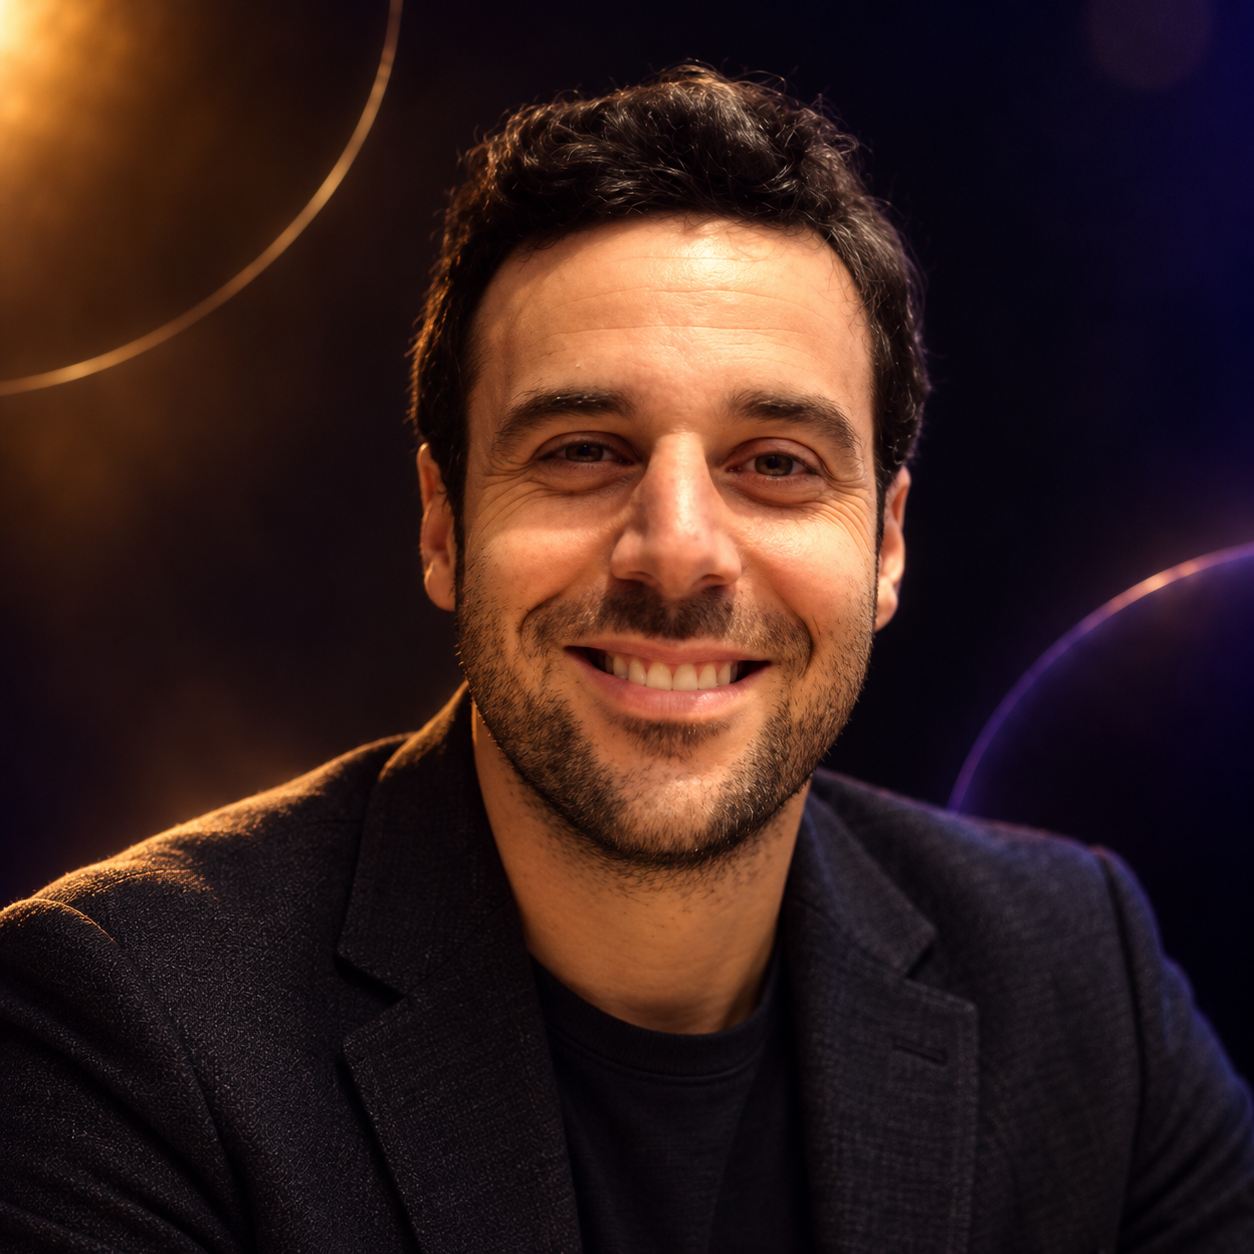
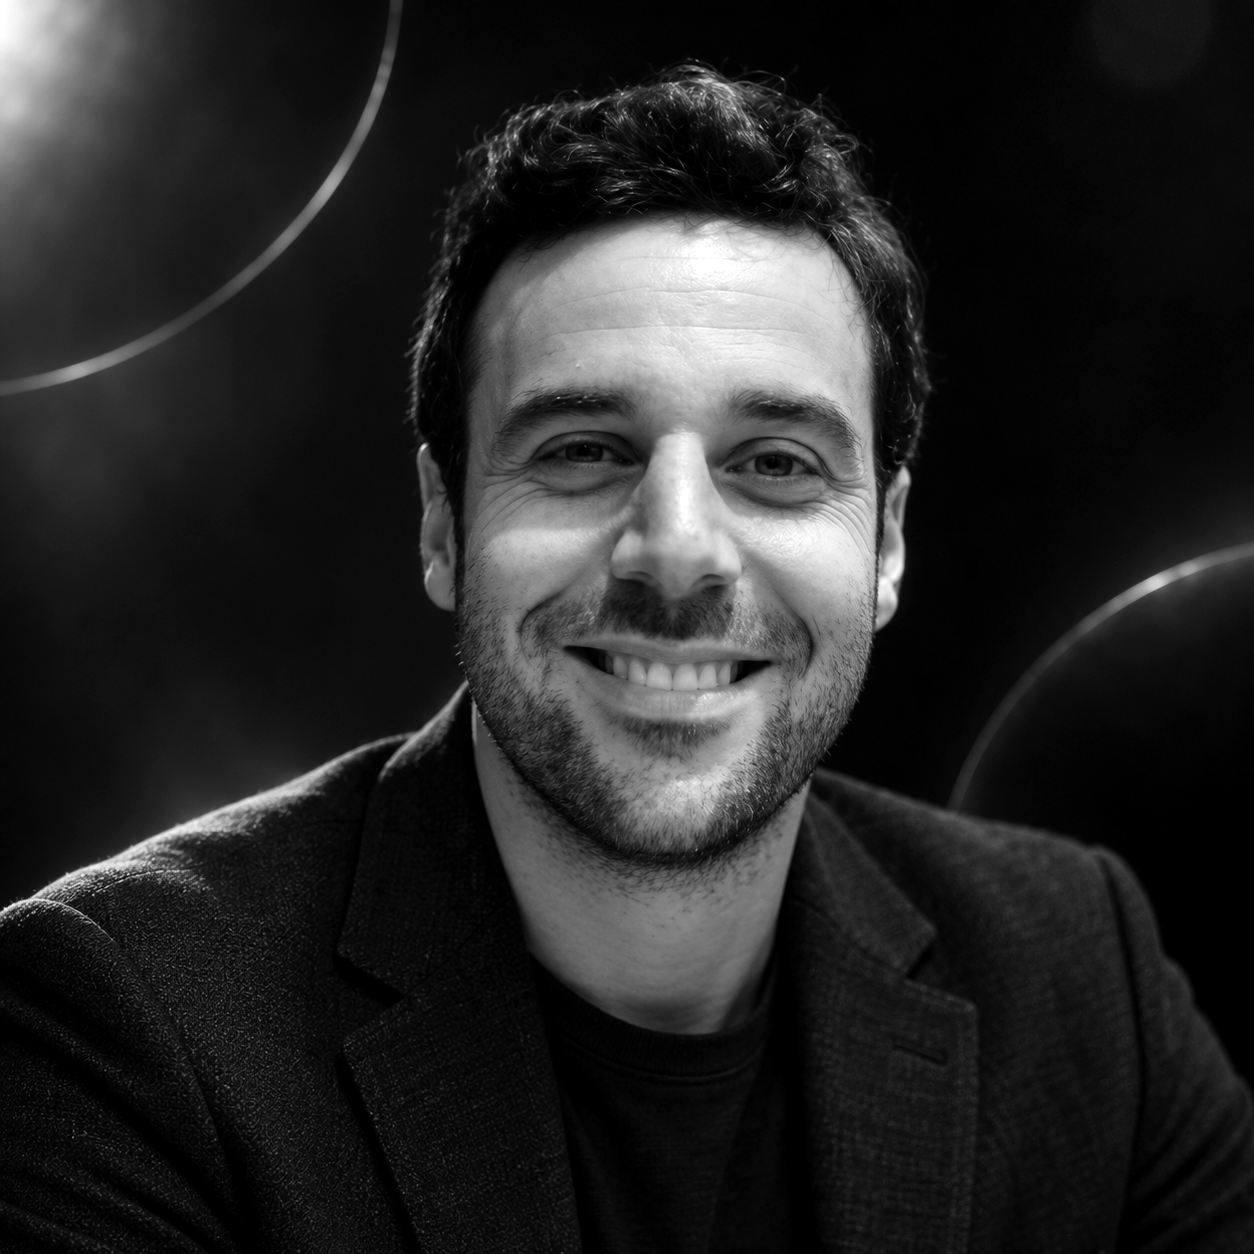
Add files via upload

diff --git a/index.html b/index.html
@@ -133,7 +133,7 @@
       user-select:none;
     }
     .event-kicker{
-      align-self:start;padding-top:94px;max-width:92px;
+      align-self:start;padding-top:94px;max-width:64px;
     }
     .event-kicker .micro{display:block;margin-bottom:15px}
     .event-kicker p{margin:0;color:var(--muted);font-size:13px;line-height:1.5}
@@ -250,22 +250,105 @@
       font-size:25px;font-weight:400;margin:0 0 7px;
     }
     .principle p{
-      margin:0;color:var(--muted);font-size:14px;line-height:1.5;max-width:420px;
+      margin:0;color:var(--muted);font-size:14px;line-height:1.5;max-width:280px;
     }
 
 
-    .organizers{padding:18px 0 120px;display:grid;grid-template-columns:.75fr 1.25fr;gap:84px;align-items:start;position:relative}
-    .organizers-intro{padding-top:28px}
-    .organizers-intro h2{font-family:Georgia,"Times New Roman",serif;font-weight:400;font-size:clamp(42px,5vw,68px);line-height:.98;letter-spacing:-.04em;margin:20px 0 0;max-width:420px}
-    .organizer-list{display:grid;gap:54px}
-    .organizer{display:grid;grid-template-columns:92px 1fr;gap:18px;align-items:center;padding-top:26px;border-top:1px solid var(--line)}
-    .portrait-wrap{position:relative;width:92px;height:150px}
-    .portrait-wrap:before{content:"";position:absolute;inset:-6px;border:1px solid transparent;border-radius:50%;background:linear-gradient(var(--bg),var(--bg)) padding-box,linear-gradient(135deg,var(--amber),var(--rose),var(--violet),var(--amber)) border-box;opacity:.85}
-    .portrait{width:100%;height:100%;border-radius:50%;object-fit:cover;display:block;position:relative;z-index:1}
-    .organizer-copy h3{font-family:Georgia,"Times New Roman",serif;font-size:22px;font-weight:400;margin:0 0 5px}
-    .organizer-role{font-size:11px;text-transform:uppercase;letter-spacing:.16em;color:#c7a8e8;margin-bottom:13px}
-    .organizer-copy p{margin:0;color:var(--muted);font-size:14px;line-height:1.55;max-width:470px}
-    .organizer-copy a{display:inline-block;margin-top:12px;font-size:11px;letter-spacing:.12em;text-transform:uppercase;text-decoration:none;color:var(--soft);border-bottom:1px solid rgba(255,255,255,.28);padding-bottom:4px}
+    .organizers{
+      padding:36px 0 58px;
+      border-top:1px solid var(--line);
+    }
+    .organizers-intro{
+      display:grid;
+      grid-template-columns:.65fr 1.35fr;
+      gap:60px;
+      align-items:start;
+      margin-bottom:34px;
+    }
+    .organizers-intro h2{
+      font-family:Georgia,"Times New Roman",serif;
+      font-weight:400;
+      font-size:clamp(34px,4vw,52px);
+      line-height:.98;
+      letter-spacing:-.04em;
+      margin:16px 0 0;
+    }
+    .organizers-mission{
+      margin:30px 0 0;
+      max-width:620px;
+      color:var(--soft);
+      font-size:15px;
+      line-height:1.55;
+    }
+    .organizer-list{
+      display:grid;
+      grid-template-columns:1fr 1fr;
+      gap:34px;
+    }
+    .organizer{
+      display:grid;
+      grid-template-columns:72px 1fr;
+      gap:16px;
+      align-items:center;
+      padding-top:18px;
+      border-top:1px solid rgba(255,255,255,.10);
+    }
+    .portrait-wrap{
+      position:relative;
+      width:72px;
+      height:72px;
+    }
+    .portrait-wrap:before{
+      content:"";
+      position:absolute;
+      inset:-4px;
+      border:1px solid transparent;
+      border-radius:50%;
+      background:
+        linear-gradient(var(--bg),var(--bg)) padding-box,
+        linear-gradient(135deg,var(--amber),var(--rose),var(--violet),var(--amber)) border-box;
+      opacity:.55;
+    }
+    .portrait{
+      width:100%;
+      height:100%;
+      border-radius:50%;
+      object-fit:cover;
+      display:block;
+      position:relative;
+      z-index:1;
+    }
+    .organizer-copy h3{
+      font-family:Georgia,"Times New Roman",serif;
+      font-size:21px;
+      font-weight:400;
+      margin:0 0 3px;
+    }
+    .organizer-role{
+      font-size:10px;
+      text-transform:uppercase;
+      letter-spacing:.15em;
+      color:#c7a8e8;
+      margin-bottom:7px;
+    }
+    .organizer-copy p{
+      margin:0;
+      color:var(--muted);
+      font-size:12px;
+      line-height:1.45;
+      max-width:350px;
+    }
+    .organizer-copy a{
+      display:inline-block;
+      margin-top:7px;
+      font-size:10px;
+      letter-spacing:.11em;
+      text-transform:uppercase;
+      text-decoration:none;
+      color:var(--soft);
+      border-bottom:1px solid rgba(255,255,255,.22);
+      padding-bottom:3px;
+    }
 
 
     .testimonials{
@@ -283,7 +366,7 @@
     .testimonials-intro h2{
       font-family:Georgia,"Times New Roman",serif;
       font-weight:400;
-      font-size:clamp(42px,5vw,68px);
+      font-size:clamp(28px,3.6vw,44px);
       line-height:.98;
       letter-spacing:-.04em;
       margin:18px 0 0;
@@ -405,9 +488,12 @@
       .event-meta{display:grid;grid-template-columns:1fr 1fr}
       .philosophy{grid-template-columns:1fr;min-height:auto;gap:20px}
       .principles{padding-top:40px}
-      .organizers{grid-template-columns:1fr;gap:42px;padding:10px 0 90px}
-      .organizer{grid-template-columns:76px 1fr;gap:22px}
-      .portrait-wrap{width:76px;height:76px}
+      .organizers{padding:30px 0 38px}
+      .organizers-intro{grid-template-columns:1fr;gap:8px;margin-bottom:24px}
+      .organizers-mission{margin:4px 0 0;font-size:14px}
+      .organizer-list{grid-template-columns:1fr;gap:18px}
+      .organizer{grid-template-columns:60px 1fr;gap:13px;padding-top:15px}
+      .portrait-wrap{width:60px;height:60px}
 
       .testimonials{padding:0 0 86px}
       .testimonials-intro{grid-template-columns:1fr;gap:14px;margin-bottom:24px}
@@ -440,10 +526,10 @@
     <main>
       <section class="hero">
         <div class="hero-copy">
-          <div class="eyebrow">Private dinners for People leaders</div>
-          <h1>Lumenair Dinners</h1>
+          <div class="eyebrow">Invite-only dinners for People leaders</div>
+          <h1>For the leaders reshaping how work works.</h1>
           <div class="subtitle">
-            Lumenair Dinners is a private dinner series for Chief People Officers and senior HR executives. Each dinner brings together a small group of peers for candid conversation about leadership, organizational change and the issues shaping people teams.
+            Lumenairs brings Chief People Officers and senior HR executives together for candid conversations about the forces changing people, performance and organizations.
           </div>
         </div>
 
@@ -517,43 +603,14 @@
         </div>
       </section>
 
-      <section class="organizers" id="organizers">
-        <div class="organizers-intro">
-          <div class="micro">Your hosts</div>
-          <h2>Why we host these dinners</h2>
-        </div>
-
-        <div class="organizer-list">
-          <div class="organizer">
-            <div class="portrait-wrap"><img class="portrait" src="ben-russo.png" alt="Ben Russo" /></div>
-            <div class="organizer-copy">
-              <h3>Ben Russo</h3>
-              <div class="organizer-role">HR Executive</div>
-              <p>Ben is an HR executive who has spent his career leading people and culture. He values creating space for leaders to connect in person and learn from one another.</p>
-              <a href="https://www.linkedin.com/in/ben-russo/" target="_blank" rel="noopener">LinkedIn ↗</a>
-            </div>
-          </div>
-
-          <div class="organizer">
-            <div class="portrait-wrap"><img class="portrait" src="mike-hill.png" alt="Mike Hill" /></div>
-            <div class="organizer-copy">
-              <h3>Mike Hill</h3>
-              <div class="organizer-role">Marketer</div>
-              <p>Mike is a marketer who has spent his career bringing people and ideas together. He shares Ben’s belief in the value of meeting in person and growing through real relationships.</p>
-              <a href="https://www.linkedin.com/in/michaelhill07/" target="_blank" rel="noopener">LinkedIn ↗</a>
-            </div>
-          </div>
-        </div>
-      </section>
-
 
       <section class="testimonials" id="testimonials">
         <div class="testimonials-intro">
           <div>
-            <div class="micro">What people said</div>
-            <h2>What the dinners feel like in the room.</h2>
+            <div class="micro">What attendees have said</div>
+            <h2>What it’s like in the room.</h2>
           </div>
-          <p>Small moments from past conversations, shared by people who were there.</p>
+          
         </div>
 
         <div class="marquee">
@@ -596,9 +653,42 @@
 
       <section class="statement">
         <div class="micro">House rule</div>
-        <blockquote>Bring the story you <em>wouldn’t tell from a stage.</em></blockquote>
+        <blockquote>Bring something you’re <em>still working through.</em> The best conversations start before anyone has the answer.</blockquote>
       </section>
     </main>
+
+
+      <section class="organizers" id="organizers">
+        <div class="organizers-intro">
+          <div>
+            <div class="micro">About Us</div>
+            <h2>Your Hosts</h2>
+          </div>
+          <p class="organizers-mission">We believe some of the most useful growth happens when people step away from the usual professional setting and spend real time together. Our goal is to create dinners where leaders can build genuine relationships, challenge their thinking, and leave with more than they came in with.</p>
+        </div>
+
+        <div class="organizer-list">
+          <div class="organizer">
+            <div class="portrait-wrap"><img class="portrait" src="ben-russo.png" alt="Ben Russo" /></div>
+            <div class="organizer-copy">
+              <h3>Ben Russo</h3>
+              <div class="organizer-role">HR Executive</div>
+              <p>Ben has spent his career leading people and culture and creating spaces where leaders can learn from one another.</p>
+              <a href="https://www.linkedin.com/in/ben-russo/" target="_blank" rel="noopener">LinkedIn ↗</a>
+            </div>
+          </div>
+
+          <div class="organizer">
+            <div class="portrait-wrap"><img class="portrait" src="mike-hill.png" alt="Mike Hill" /></div>
+            <div class="organizer-copy">
+              <h3>Mike Hill</h3>
+              <div class="organizer-role">Marketer</div>
+              <p>Mike is a marketer who believes the right room can create stronger ideas, relationships, and opportunities.</p>
+              <a href="https://www.linkedin.com/in/michaelhill07/" target="_blank" rel="noopener">LinkedIn ↗</a>
+            </div>
+          </div>
+        </div>
+      </section>
 
     <footer>
       <div>© 2026 Lumenair Dinners</div>

diff --git a/README.md b/README.md
@@ -25,3 +25,13 @@ Upload/replace these files in the root of your GitHub repository and commit to `
 Vercel should redeploy automatically.
 
 - Updated the dinners section to show upcoming and past events, including the September 9, 2026 San Francisco dinner.
+
+- Restored the hero copy to: Invite-only dinners for People leaders / For the leaders reshaping how work works. / Lumenairs brings Chief People Officers and senior HR executives together for candid conversations about the forces changing people, performance and organizations.
+
+- Moved the Hosts section to the bottom of the page and made it much smaller.
+- Converted Ben and Mike photos to black and white.
+- Shortened both host bios.
+- Updated the testimonial eyebrow/header and removed the supporting line.
+
+- Redesigned the Hosts section as About Us / Your Hosts with a mission paragraph and horizontal host profiles.
+- Updated the House Rule to encourage active participation.
